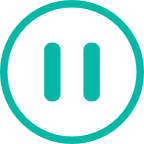
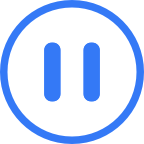
优化代码

Changed region(s): [[0.0, 0.0, 1.0, 1.0], [0.5556, 0.2778, 0.6944, 0.7222], [0.3056, 0.2778, 0.4444, 0.7222]]

diff --git a/src/view/map/position/index.js b/src/view/map/position/index.js
@@ -4,15 +4,17 @@
  * @Author: xieruizhi
  * @Date: 2019-08-12 09:36:35
  * @LastEditors: xieruizhi
- * @LastEditTime: 2019-09-11 15:09:52
+ * @LastEditTime: 2019-09-11 18:20:37
  */
 import React, {Component} from 'react';
 import {View,Platform,TouchableOpacity,Image,Text,ImageBackground} from 'react-native';
+import Styles from '../style/base';
 import MapStyles from '../style/position';
 import gps from '../../../libs/coversionPoint';
 import {httpLocationGet,jmAjax} from '../../../http/business';
 import {map} from '../../../api/index';
 import PropTypes from 'prop-types';
+import '../../../libs/time';
 
 export default class PositionUtils extends Component { 
     static propTypes = {
@@ -41,12 +43,12 @@ export default class PositionUtils extends Component {
             longitudeDelta: 0.0421,
         },
         markerOperation:{
-            style:MapStyles.markerImg,
-            image:require('../../../assets/map/oldMan.png'),
+            style:Styles.deviceMarker,
+            image:require('../../../assets/map/device.png'),
         },
         mylocationOperation:{
-            style:MapStyles.markerImg,
-            image:require('../../../assets/map/phone.png'),
+            style:MapStyles.myMarker,
+            image:require('../../../assets/map/trajectory_map_phone_position.png'),
         },
         edgePadding:{ 
             top: 200, 
@@ -57,8 +59,8 @@ export default class PositionUtils extends Component {
         ChangePositionBtn:{
             isShow:true,
             style:MapStyles.phonePointBtn,
-            markerImg:require('../../../assets/map/equipment.png'),
-            myPositionImg:require('../../../assets/map/old.png')
+            markerImg:require('../../../assets/map/position_map_current-position.png'),
+            myPositionImg:require('../../../assets/map/map_phone_position.png')
         },
         isRefresh:true,
         refreshTime:15000,
@@ -97,8 +99,8 @@ export default class PositionUtils extends Component {
             locationData:null,//定位的所有数据
             ChangePositionBtn:{
                 isShow:this.props.ChangePositionBtn.style ? true :this.props.ChangePositionBtn.isShow ? true : false,
-                markerImg:this.props.ChangePositionBtn.markerImg ? this.props.ChangePositionBtn.markerImg : require('../../../assets/map/equipment.png'),
-                myPositionImg:this.props.ChangePositionBtn.myPositionImg ? this.props.ChangePositionBtn.markerImg : require('../../../assets/map/old.png')                
+                markerImg:this.props.ChangePositionBtn.markerImg ? this.props.ChangePositionBtn.markerImg : require('../../../assets/map/position_map_current-position.png'),
+                myPositionImg:this.props.ChangePositionBtn.myPositionImg ? this.props.ChangePositionBtn.markerImg : require('../../../assets/map/map_phone_position.png')                
             },
             userMapType:0,//0为百度，1为谷歌
             lastAddress:null,//上一次定位点的地址
@@ -319,10 +321,10 @@ export default class PositionUtils extends Component {
                 <Text style={MapStyles.infoWindowTitle}>{this.state.locationData.gpsSpeed}km/h</Text>
             </View>                              
             <View style={MapStyles.infoWindowItem}>
-                <Text style={MapStyles.infoWindowTitle}>定位时间:{this.state.locationData.gpsTime}</Text>
+                <Text style={MapStyles.infoWindowTitle}>定位时间:{new Date(this.state.locationData.gpsTime).Format('YYYY-MM-DD hh:mm:ss') }</Text>
             </View>     
             <View style={MapStyles.infoWindowItem}>
-                <Text style={MapStyles.infoWindowTitle}>通讯时间:{this.state.locationData.time}</Text>
+                <Text style={MapStyles.infoWindowTitle}>通讯时间:{ new Date(this.state.locationData.time).Format('YYYY-MM-DD hh:mm:ss')}</Text>
             </View>    
             <View style={[MapStyles.infoWindowItem,{paddingBottom:0}]}>
                 <Text style={MapStyles.infoWindowTitle}>{this.state.locationData.address}{'\n'}                                                        
@@ -381,7 +383,6 @@ export default class PositionUtils extends Component {
         case 2:
             type = 'WIFI定位';
         } 
-
         return type;        
     }
     

diff --git a/src/view/map/track/TrackController.js b/src/view/map/track/TrackController.js
@@ -4,12 +4,13 @@
  * @Author: xieruizhi
  * @Date: 2019-08-19 15:17:13
  * @LastEditors: xieruizhi
- * @LastEditTime: 2019-09-11 16:21:28
+ * @LastEditTime: 2019-09-11 17:52:11
  */
 import React, {Component} from 'react';
 import {View,Platform,TouchableOpacity,Image,Text,Slider} from 'react-native';
 import PropTypes from 'prop-types';
 import MapStyles from '../style/track';
+import themes from '../../../components/themes';
 import {ActionSheet,Overlay,SegmentedBar,ListRow,Label,Toast} from 'teaset';
 import Datepicker from '../../../components/datepicker/Datepicker';
 export default class Track extends Component {
@@ -75,7 +76,7 @@ export default class Track extends Component {
             <View style={{flex:1}}>
                 <View style={MapStyles.details}>
                     <View style={MapStyles.time}>
-                        <Text style={MapStyles.timeText}>{deviceInformation.time}</Text>
+                        <Text style={MapStyles.timeText}>{new Date(deviceInformation.gpsTime).Format('YYYY-MM-DD hh:mm:ss')}</Text>
                         <TouchableOpacity activeOpacity={1} style={MapStyles.selectTimeIcon} onPress={()=>{
                             this.setState({
                                 isShowPullTime:true
@@ -135,7 +136,7 @@ export default class Track extends Component {
             <View style={MapStyles.tab}> 
                 <SegmentedBar 
                     indicatorType={'customWidth'} 
-                    indicatorLineColor={'#03B8A6'} 
+                    indicatorLineColor={themes.TextColorPrimary} 
                     indicatorLineWidth={3} 
                     indicatorWidth={26}
                     indicatorPositionPadding={-8}

diff --git a/src/view/map/track/index.js b/src/view/map/track/index.js
@@ -4,7 +4,7 @@
  * @Author: xieruizhi
  * @Date: 2019-09-03 10:32:27
  * @LastEditors: xieruizhi
- * @LastEditTime: 2019-09-11 16:37:21
+ * @LastEditTime: 2019-09-11 18:32:55
  */
 import React, {Component} from 'react';
 import {View,TouchableOpacity,Image} from 'react-native';
@@ -49,7 +49,7 @@ export default class TrackUtils extends Component {
         }, 
         deviceMarkerOperation:{
             style:Styles.deviceMarker,
-            image:require('../../../assets/track/track_icon_deveice.png'),
+            image:require('../../../assets/map/device.png'),
         },
         dimDd:7,
         customItem:null
@@ -173,9 +173,8 @@ export default class TrackUtils extends Component {
         let allPoint = this.getTrackPointArr();
         let pointArr=[];
         pointArr.push(allPoint[0]); //初始化设备位置
-
+        trackData[0].totalDistance = 0;
         let deviceMarker = trackData[0];
-        deviceMarker.totalDistance = 0;
         
         this.setState({
             startMarker:{latitude:trackData[0].latitude,longitude:trackData[0].longitude},
@@ -315,10 +314,7 @@ export default class TrackUtils extends Component {
                 trackData[currentProgress].totalDistance = this.countTotalTrack(pointArr); //计算总里程
             }
 
-            if(!trackData[currentProgress].time){
-                //时间戳转
-                trackData[currentProgress].time  = new Date(trackData[currentProgress].gpsTime).Format('YYYY-MM-DD hh:mm:ss');
-            }
+ 
             
             let deviceMarker = trackData[currentProgress];
             console.log(trackData);

diff --git a/src/view/map/position/GooglePosition.js b/src/view/map/position/GooglePosition.js
@@ -4,7 +4,7 @@
  * @Author: xieruizhi
  * @Date: 2019-08-12 09:36:35
  * @LastEditors: xieruizhi
- * @LastEditTime: 2019-09-10 10:59:10
+ * @LastEditTime: 2019-09-11 18:22:11
  */
 import React, {Component} from 'react';
 import {View,Platform,TouchableOpacity,Image,Text} from 'react-native';
@@ -134,7 +134,7 @@ export default class GooglePosition extends PositionUtils {
             >
                 <Image 
                     style={[this.props.markerOperation.style ? this.props.markerOperation.style:MapStyles.markerImg,{transform:[{rotate:this.state.locationData.direction+'deg'}]}]} 
-                    source={this.props.markerOperation.image? this.props.markerOperation.image :require('../../../assets/map/oldMan.png') }/>
+                    source={this.props.markerOperation.image? this.props.markerOperation.image :require('../../../assets/map/device.png') }/>
                 <Callout tooltip={this.props.isCustom}>
                     {this.props.markerInfoWindow.markerInfo ? this.props.markerInfoWindow.markerInfo() : this.markerInfo()}
                 </Callout>               

diff --git a/src/view/map/track/GoogleTrack.js b/src/view/map/track/GoogleTrack.js
@@ -4,7 +4,7 @@
  * @Author: xieruizhi
  * @Date: 2019-08-19 10:36:46
  * @LastEditors: xieruizhi
- * @LastEditTime: 2019-09-11 15:20:49
+ * @LastEditTime: 2019-09-11 18:31:59
  */
 
 import React, {Component} from 'react';
@@ -115,7 +115,7 @@ export default class GoogleTrack extends TrackUtils {
             >
                 <Image 
                     style={[this.props.deviceMarkerOperation.style ? this.props.deviceMarkerOperation.style:Styles.deviceMarker,{transform:[{rotate:this.state.deviceMarker.direction+'deg'}]}]} 
-                    source={this.props.deviceMarkerOperation.image? this.props.deviceMarkerOperation.image :require('../../../assets/track/track_icon_deveice.png')}/>              
+                    source={this.props.deviceMarkerOperation.image? this.props.deviceMarkerOperation.image :require('../../../assets/map/device.png')}/>              
             </Marker>:null;
         return markers;
     }

diff --git a/src/examples/Position.js b/src/examples/Position.js
@@ -4,7 +4,7 @@
  * @Author: xieruizhi
  * @Date: 2019-08-12 09:30:32
  * @LastEditors: xieruizhi
- * @LastEditTime: 2019-09-11 11:16:32
+ * @LastEditTime: 2019-09-11 18:12:25
  */
 import React, {Component} from 'react';
 import {View,StyleSheet,Text,TouchableOpacity} from 'react-native';
@@ -20,7 +20,7 @@ export default class Position extends Component {
     render(){
         let obj= {
             // style:styles.marker,
-            image:require('../assets/map/icon_car.png'),
+            image:require('../assets/map/device.png'),
         };
 
         let car = {
@@ -28,7 +28,7 @@ export default class Position extends Component {
         };
 
         let my = {
-            image:require('../assets/map/oldMan.png'),
+            image:require('../assets/map/trajectory_map_phone_position.png'),
         };
 
         let markerInfoWindow = {

diff --git a/src/view/map/style/track.js b/src/view/map/style/track.js
@@ -4,10 +4,10 @@
  * @Author: xieruizhi
  * @Date: 2019-08-19 14:41:43
  * @LastEditors: xieruizhi
- * @LastEditTime: 2019-09-09 16:09:44
+ * @LastEditTime: 2019-09-11 18:40:04
  */
 import {StyleSheet,Dimensions} from 'react-native';
-
+import themes from '../../../components/themes';
 const {width} = Dimensions.get('window');
 
 
@@ -125,7 +125,7 @@ const MapStyles =  StyleSheet.create({
     },
     activeTitleStyle:{
         fontSize:16,
-        color:'#03B8A6'
+        color:themes.TextColorPrimary
     },
     listRow:{
         flexDirection:'row',
@@ -164,7 +164,7 @@ const MapStyles =  StyleSheet.create({
     },
     confirm:{
         color:'#fff',
-        backgroundColor:'#03B8A6'        
+        backgroundColor:themes.buttonBackColorPrimary      
     },
     btnItemText:{
         fontSize:16,

diff --git a/src/view/index.js b/src/view/index.js
@@ -4,14 +4,14 @@
  * @Author: liujinyuan
  * @Date: 2019-08-08 14:46:00
  * @LastEditors: xieruizhi
- * @LastEditTime: 2019-09-10 11:05:45
+ * @LastEditTime: 2019-09-11 18:36:14
  */
 
 import Photo from './photo/index';
-import BaiduPosition from '../view/map/Position/BaiduPosition';
-import GooglePosition from '../view/map/Position/GooglePosition';
-import BaiduTrack from '../view/map/Track/BaiduTrack';
-import GoogleTrack from '../view/map/Track/GoogleTrack';
+import BaiduPosition from './map/position/BaiduPosition';
+import GooglePosition from './map/position/GooglePosition';
+import BaiduTrack from './map/track/BaiduTrack';
+import GoogleTrack from './map/track/GoogleTrack';
 
 const Jimi = {
     Photo,

diff --git a/src/view/map/style/position.js b/src/view/map/style/position.js
@@ -4,7 +4,7 @@
  * @Author: xieruizhi
  * @Date: 2019-08-12 10:17:53
  * @LastEditors: xieruizhi
- * @LastEditTime: 2019-09-10 10:57:51
+ * @LastEditTime: 2019-09-11 18:19:00
  */
 
 import {StyleSheet,Platform} from 'react-native';
@@ -35,14 +35,14 @@ const MapStyles =  StyleSheet.create({
         position:'absolute',
         left:20,
         bottom:30,
-        width:35,
-        height:35,
+        width:37,
+        height:37,
         zIndex:100,
     },
-    markerImg:{
-        width:29,
+    myMarker:{
+        width:30,
         height:30
-    },
+    },  
     infoWindow:{
         padding:15,
         paddingBottom:0,

diff --git a/src/view/map/style/base.js b/src/view/map/style/base.js
@@ -4,7 +4,7 @@
  * @Author: xieruizhi
  * @Date: 2019-09-03 10:33:49
  * @LastEditors: xieruizhi
- * @LastEditTime: 2019-09-05 10:25:27
+ * @LastEditTime: 2019-09-11 18:28:26
  */
 import {StyleSheet} from 'react-native';
 const Styles =  StyleSheet.create({
@@ -29,8 +29,8 @@ const Styles =  StyleSheet.create({
         top:63,
     }, 
     deviceMarker:{
-        width:35,
-        height:35
+        width:37,
+        height:37
     }  
 });
 

diff --git a/src/components/themes/themeDefault.js b/src/components/themes/themeDefault.js
@@ -4,10 +4,10 @@
  * @Author: liujinyuan
  * @Date: 2019-08-08 15:12:32
  * @LastEditors: xieruizhi
- * @LastEditTime: 2019-09-05 11:51:29
+ * @LastEditTime: 2019-09-11 17:49:42
  */
 
-const mainColor = '#03B8A6';
+const mainColor = '#3479F6';
 export default {
     //text
     fontSize:12,
